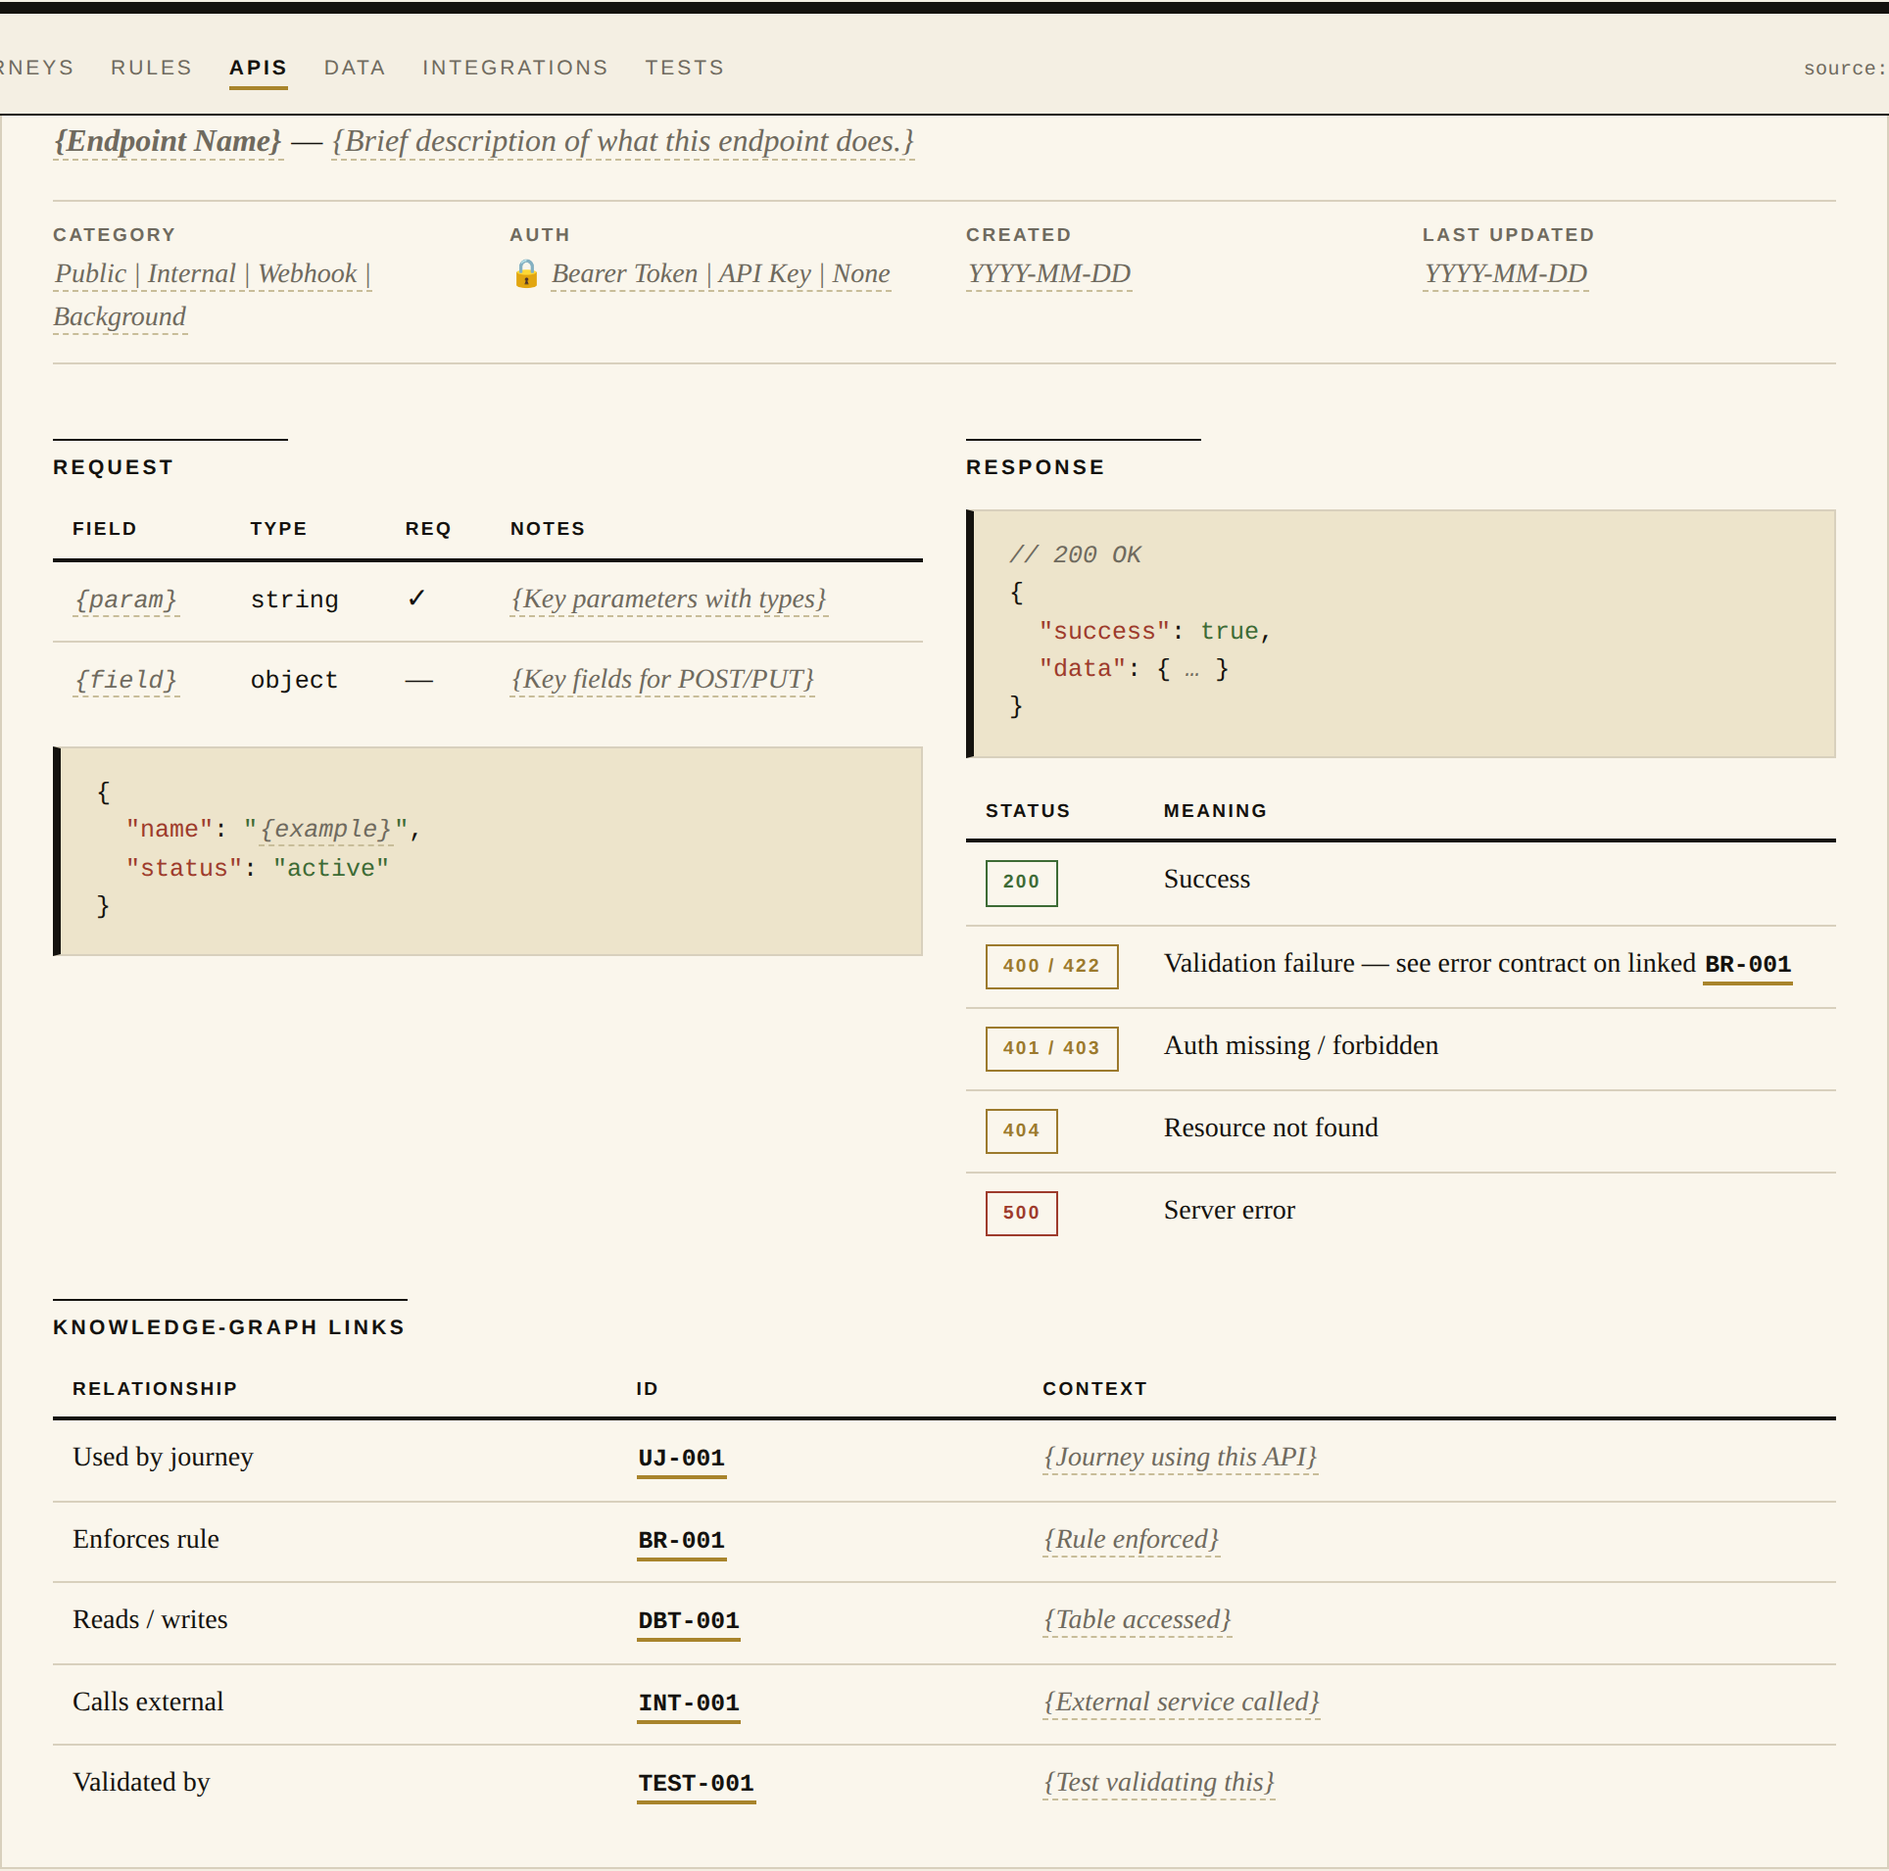
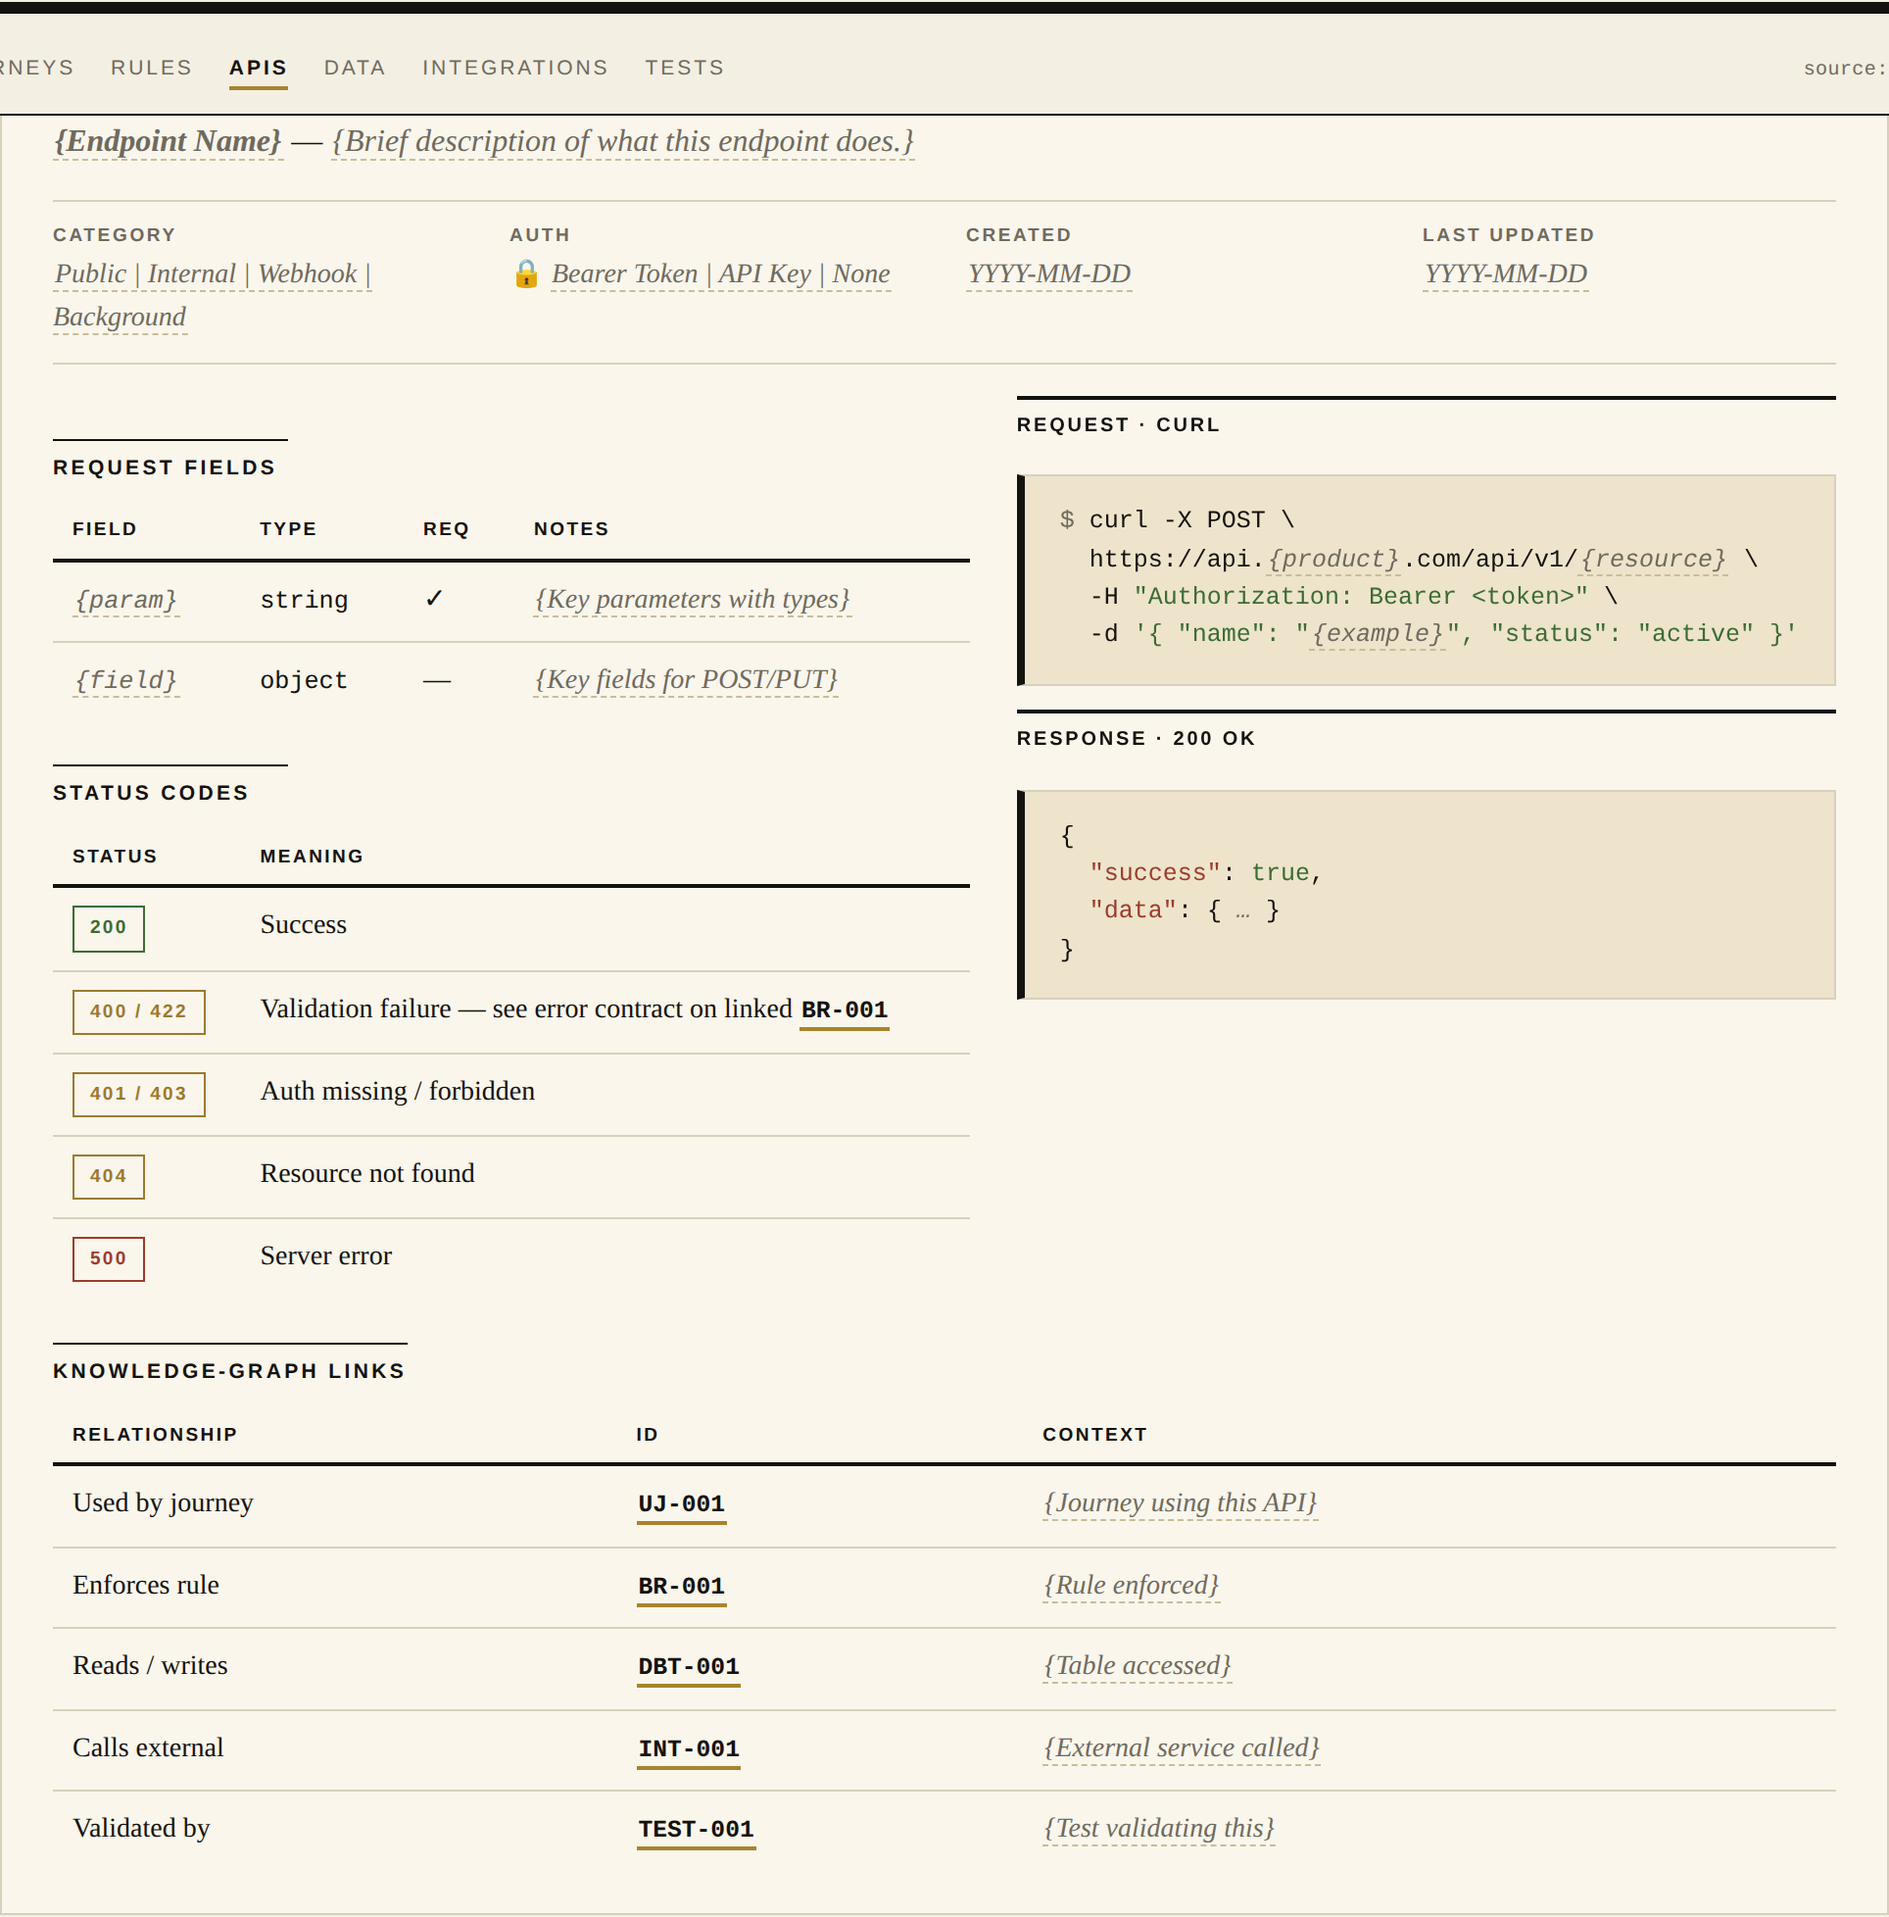
style(SoT/html): Stage 3 view-specific devices from the pattern research
- API contracts: Stripe-style split reference — request fields and
  status codes left, sticky code rail right with cURL example and
  non-selectable $ prompt
- Design components: anatomy diagram with numbered callouts, leader
  lines, and a matching legend (Carbon/Polaris convention)
- User journeys: service-blueprint swimlanes (customer action /
  frontstage / backstage) split by a labeled line of visibility,
  each backstage cell linking its API/BR/DBT IDs
- Atlas: Peterson field-mark plate annotating the ID anatomy (prefix
  and number as diagnostic marks with leader lines)
- README pattern-provenance table updated with all four devices

267 links validate; screenshots regenerated.

https://claude.ai/code/session_01KmHt5qh6AASaJXX68mPdE6

diff --git a/SoT/html/assets/sot.css b/SoT/html/assets/sot.css
@@ -671,6 +671,91 @@ table.tbl tr.changed td:first-child { border-left: 3px solid var(--accent); }
 .title-block td { padding: 4px 8px; border-bottom: 1px solid var(--line); vertical-align: top; }
 @media (max-width: 700px) { .title-block { grid-template-columns: 1fr; } }
 
+/* Split reference + pinned code rail (Stripe API docs: prose left, code right;
+   the rail stays in view while the reader scrolls the fields) */
+.api-split { display: grid; grid-template-columns: 1.15fr 1fr; gap: calc(var(--u) * 3); align-items: start; }
+.code-rail { position: sticky; top: 70px; }
+.code-rail-head {
+  font-family: var(--grot);
+  font-size: 10px;
+  font-weight: 700;
+  letter-spacing: 0.14em;
+  text-transform: uppercase;
+  border-top: 2px solid var(--ink);
+  padding: 6px 0 4px;
+  margin-top: var(--u);
+}
+.code-rail-head:first-child { margin-top: 0; }
+.prompt { user-select: none; color: var(--ink-soft); }
+@media (max-width: 800px) { .api-split { grid-template-columns: 1fr; } .code-rail { position: static; } }
+
+/* Anatomy diagram (design-system convention: numbered callouts name each subpart) */
+.anatomy { display: grid; grid-template-columns: minmax(250px, 1fr) 1.2fr; gap: calc(var(--u) * 3); align-items: center; margin: var(--u) 0; }
+.anatomy-stage {
+  position: relative;
+  border: 1px solid var(--line);
+  background: var(--surface);
+  padding: calc(var(--u) * 6) calc(var(--u) * 5);
+  display: flex; align-items: center; justify-content: center;
+}
+.callout {
+  position: absolute;
+  width: 20px; height: 20px;
+  background: var(--ink); color: var(--surface);
+  border-radius: 50%;
+  font-family: var(--grot); font-size: 11px; font-weight: 700;
+  display: flex; align-items: center; justify-content: center;
+}
+.callout i { position: absolute; background: var(--ink); }
+.callout .lv { width: 1px; height: 18px; left: 50%; top: 100%; }
+.callout .lh { height: 1px; width: 18px; top: 50%; left: 100%; }
+ol.anatomy-legend { counter-reset: an; list-style: none; padding: 0; margin: 0; }
+ol.anatomy-legend > li { counter-increment: an; display: flex; gap: 10px; padding: 6px 0; border-bottom: 1px solid var(--line); font-size: 14px; }
+ol.anatomy-legend > li::before {
+  content: counter(an);
+  flex: 0 0 20px; height: 20px;
+  background: var(--ink); color: var(--surface);
+  border-radius: 50%;
+  font-family: var(--grot); font-size: 11px; font-weight: 700;
+  display: inline-flex; align-items: center; justify-content: center;
+}
+@media (max-width: 700px) { .anatomy { grid-template-columns: 1fr; } }
+
+/* Service blueprint (IDEO / NN-g: swimlanes split by the line of visibility) */
+.blueprint { display: grid; grid-template-columns: 120px repeat(3, 1fr); border: 1px solid var(--ink); }
+.blueprint .bp-label {
+  font-family: var(--grot); font-size: 9.5px; font-weight: 700;
+  letter-spacing: 0.12em; text-transform: uppercase;
+  padding: 10px 10px; border-right: 1px solid var(--ink);
+  display: flex; align-items: center;
+}
+.blueprint .bp-cell { padding: 10px 12px; font-size: 13px; border-left: 1px solid var(--line); }
+.blueprint .bp-vis {
+  grid-column: 1 / -1;
+  border-top: 1.5px dashed var(--ink);
+  font-family: var(--grot); font-size: 9px; font-weight: 700;
+  letter-spacing: 0.18em; text-transform: uppercase;
+  color: var(--ink-soft);
+  padding: 2px 10px;
+  background: var(--gray-soft);
+}
+
+/* Field-mark plate (Peterson field guides: leader lines name the diagnostic parts) */
+.fieldmark { margin: calc(var(--u) * 2) 0 var(--u); }
+.fieldmark .fm-id {
+  display: grid; grid-template-columns: 1fr 1fr;
+  font-family: var(--mono); font-size: 40px; font-weight: 700;
+  text-align: center;
+}
+.fieldmark .fm-part { border-bottom: 2px solid var(--accent); justify-self: center; padding: 0 6px; }
+.fieldmark .fm-notes { display: grid; grid-template-columns: 1fr 1fr; gap: calc(var(--u) * 2); margin-top: 0; }
+.fieldmark .fm-note { font-family: var(--grot); font-size: 12px; line-height: 1.5; color: var(--ink-soft); text-align: center; }
+.fieldmark .fm-leader { display: block; width: 1px; height: 20px; background: var(--ink); margin: 0 auto 6px; }
+.fieldmark .fm-note b {
+  display: block; color: var(--ink);
+  font-size: 9.5px; letter-spacing: 0.14em; text-transform: uppercase;
+}
+
 @media print {
   .topnav { position: static; }
   body { background: #fff; }

diff --git a/SoT/html/SoT.API_CONTRACTS.html b/SoT/html/SoT.API_CONTRACTS.html
@@ -56,9 +56,9 @@
       <div><dt>Last updated</dt><dd><span class="ph">YYYY-MM-DD</span></dd></div>
     </dl>
 
-    <div class="grid-2">
+    <div class="api-split">
       <div>
-        <div class="section-label">Request</div>
+        <div class="section-label">Request fields</div>
         <table class="tbl">
           <thead><tr><th>Field</th><th>Type</th><th>Req</th><th>Notes</th></tr></thead>
           <tbody>
@@ -66,18 +66,7 @@
             <tr><td><code><span class="ph">{field}</span></code></td><td><code>object</code></td><td>—</td><td><span class="ph">{Key fields for POST/PUT}</span></td></tr>
           </tbody>
         </table>
-        <pre class="code">{
-  <span class="k">"name"</span>: <span class="s">"<span class="ph">{example}</span>"</span>,
-  <span class="k">"status"</span>: <span class="s">"active"</span>
-}</pre>
-      </div>
-      <div>
-        <div class="section-label">Response</div>
-        <pre class="code"><span class="c">// 200 OK</span>
-{
-  <span class="k">"success"</span>: <span class="s">true</span>,
-  <span class="k">"data"</span>: { <span class="c">…</span> }
-}</pre>
+        <div class="section-label">Status codes</div>
         <table class="tbl">
           <thead><tr><th>Status</th><th>Meaning</th></tr></thead>
           <tbody>
@@ -89,6 +78,18 @@
           </tbody>
         </table>
       </div>
+      <aside class="code-rail">
+        <div class="code-rail-head">Request · cURL</div>
+        <pre class="code"><span class="prompt">$ </span>curl -X POST \
+  https://api.<span class="ph">{product}</span>.com/api/v1/<span class="ph">{resource}</span> \
+  -H <span class="s">"Authorization: Bearer &lt;token&gt;"</span> \
+  -d <span class="s">'{ "name": "<span class="ph">{example}</span>", "status": "active" }'</span></pre>
+        <div class="code-rail-head">Response · 200 OK</div>
+        <pre class="code">{
+  <span class="k">"success"</span>: <span class="s">true</span>,
+  <span class="k">"data"</span>: { <span class="c">…</span> }
+}</pre>
+      </aside>
     </div>
 
     <div class="section-label">Knowledge-graph links</div>

diff --git a/SoT/html/SoT.USER_JOURNEYS.html b/SoT/html/SoT.USER_JOURNEYS.html
@@ -119,6 +119,23 @@
       </div>
     </div>
 
+    <div class="section-label">Service blueprint — what the user sees vs what the system does</div>
+    <div class="blueprint">
+      <div class="bp-label">Customer action</div>
+      <div class="bp-cell"><span class="ph">{Step 1 — what the user does}</span></div>
+      <div class="bp-cell"><span class="ph">{Step 2}</span></div>
+      <div class="bp-cell"><span class="ph">{Step 3 — value moment}</span></div>
+      <div class="bp-vis">Line of visibility</div>
+      <div class="bp-label">Frontstage</div>
+      <div class="bp-cell"><a class="id" href="#SCR-001">SCR-001</a> <span class="ph">{screen state}</span></div>
+      <div class="bp-cell"><a class="id" href="SoT.DESIGN_COMPONENTS.html#DES-001">DES-001</a> <span class="ph">{component shown}</span></div>
+      <div class="bp-cell"><span class="ph">{confirmation surface}</span></div>
+      <div class="bp-label">Backstage</div>
+      <div class="bp-cell"><a class="id" href="SoT.API_CONTRACTS.html#API-001">API-001</a> <span class="ph">{call made}</span></div>
+      <div class="bp-cell"><a class="id" href="SoT.BUSINESS_RULES.html#BR-001">BR-001</a> <span class="ph">{rule checked}</span></div>
+      <div class="bp-cell"><a class="id" href="SoT.DATA_MODEL.html#DBT-001">DBT-001</a> <span class="ph">{record written}</span></div>
+    </div>
+
     <div class="section-label">Related IDs</div>
     <table class="tbl">
       <thead><tr><th>Relationship</th><th>ID</th><th>Why it's linked</th></tr></thead>

diff --git a/SoT/html/SoT.DESIGN_COMPONENTS.html b/SoT/html/SoT.DESIGN_COMPONENTS.html
@@ -69,6 +69,23 @@
     <p class="footnote" style="border:none; padding:0; margin-top:6px">Replace the specimen markup
        with the real component rendering (screenshot, embed, or live HTML).</p>
 
+    <div class="section-label">Anatomy</div>
+    <div class="anatomy">
+      <div class="anatomy-stage">
+        <button style="background:var(--ink); color:var(--surface); border:none; padding:9px 20px; font-weight:600; font-family:var(--grot); letter-spacing:0.04em">
+          <span class="ph">{Label}</span>
+        </button>
+        <span class="callout" style="top:14px; left:14px">1<i class="lv"></i></span>
+        <span class="callout" style="top:50%; right:14px; transform:translateY(-50%)">2<i class="lh" style="right:100%; left:auto"></i></span>
+        <span class="callout" style="bottom:14px; left:50%; transform:translateX(-50%)">3<i class="lv" style="top:auto; bottom:100%"></i></span>
+      </div>
+      <ol class="anatomy-legend">
+        <li><span><strong>Container</strong> — <span class="ph">{Bounds, padding, background token}</span></span></li>
+        <li><span><strong>Label</strong> — <span class="ph">{Type style, truncation rule}</span></span></li>
+        <li><span><strong>Focus ring / state layer</strong> — <span class="ph">{How states render}</span></span></li>
+      </ol>
+    </div>
+
     <div class="grid-2">
       <div>
         <div class="section-label">Specifications</div>

diff --git a/SoT/html/index.html b/SoT/html/index.html
@@ -115,6 +115,15 @@
 BR-104        <span class="c">← business rule #104</span>
 UJ-012        <span class="c">← user journey #012</span>
 api-001-user-login  <span class="c">← optional slug form</span></pre>
+      <figure class="fieldmark">
+        <div class="fm-id"><span class="fm-part">BR</span><span class="fm-part">104</span></div>
+        <div class="fm-notes">
+          <div class="fm-note"><span class="fm-leader"></span><b>Field mark 1 · Prefix</b>
+            Artifact type, 2–4 letters — routes to the SoT file that owns it</div>
+          <div class="fm-note"><span class="fm-leader"></span><b>Field mark 2 · Number</b>
+            Three digits, strictly incrementing — never reused, deprecate instead</div>
+        </div>
+      </figure>
       <ul>
         <li><strong>Stable</strong> — IDs never change; names can.</li>
         <li><strong>Never reused</strong> — deprecate, don't delete.</li>

diff --git a/SoT/html/README.md b/SoT/html/README.md
@@ -49,6 +49,10 @@ in [`assets/sot.css`](assets/sot.css); use it where indicated, nowhere else.
 | **Change bar** — a margin bar marks what changed since the last revision | Military doctrine publications | `.changed` | Rows/paragraphs touched in the latest revision; pair with the revision table |
 | **Do/Don't pair** — side-by-side correct/incorrect usage, ochre check / ink cross | Design-system docs (Carbon, Polaris) | `.dodont` | Component usage, business-rule examples, lessons |
 | **Modular spacing unit** — one scale, scrupulously adhered to | Vignelli/Unimark standards manuals | `--u` custom property | All new component CSS |
+| **Split reference + pinned code rail** — fields left, sticky code samples right (non-selectable `$` prompt) | Stripe API documentation | `.api-split` / `.code-rail` / `.prompt` | API contract entries |
+| **Anatomy diagram** — numbered callouts with leader lines naming each subpart | Design-system docs (Carbon, Polaris) | `.anatomy` / `.callout` / `.anatomy-legend` | Component specs; reusable for entity cards |
+| **Service-blueprint swimlanes** — customer / frontstage / backstage split by a labeled line of visibility | IDEO & NN/g service design | `.blueprint` / `.bp-vis` | One per journey, under the journey map |
+| **Field-mark plate** — leader lines point at the diagnostic parts of a specimen | Peterson Field Guides | `.fieldmark` | ID anatomy on the atlas; any "parts of X" diagram |
 
 **The ochre budget**: ochre is the single spot color and it must stay scarce to keep meaning.
 Standing uses are the kicker №, the ID-chip underline, and confidence stars. Beyond those, at most
